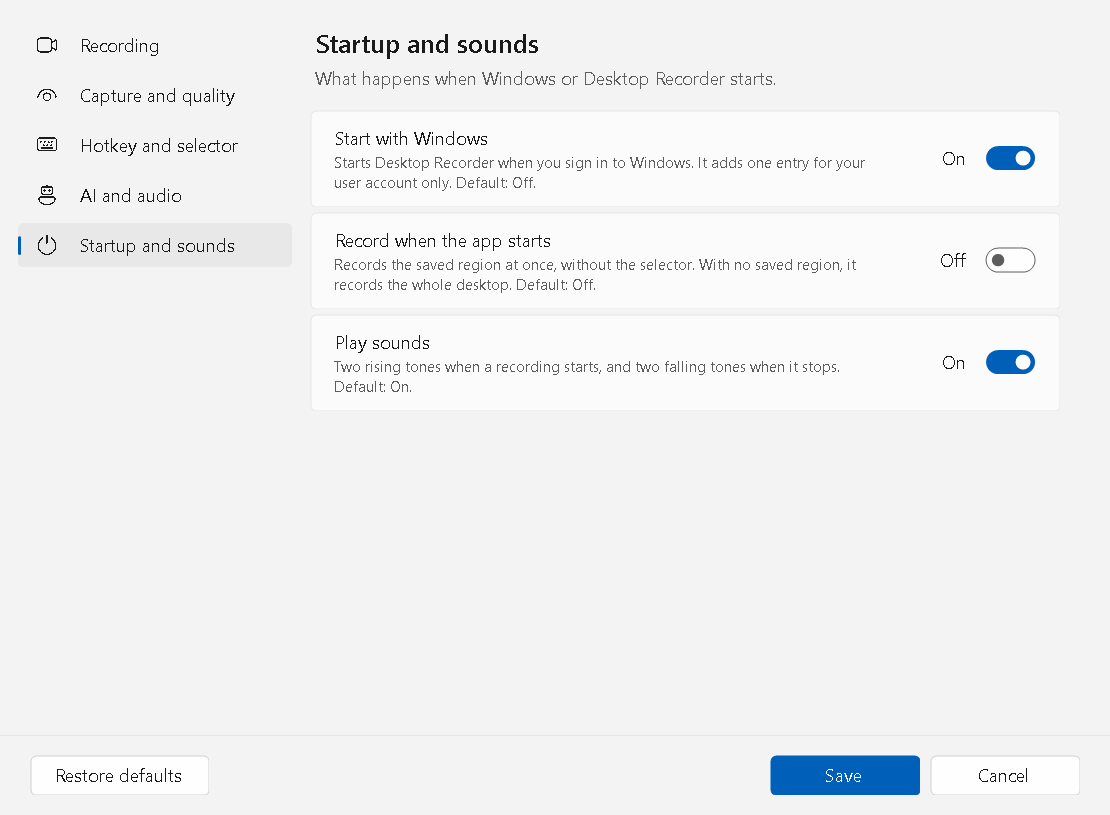
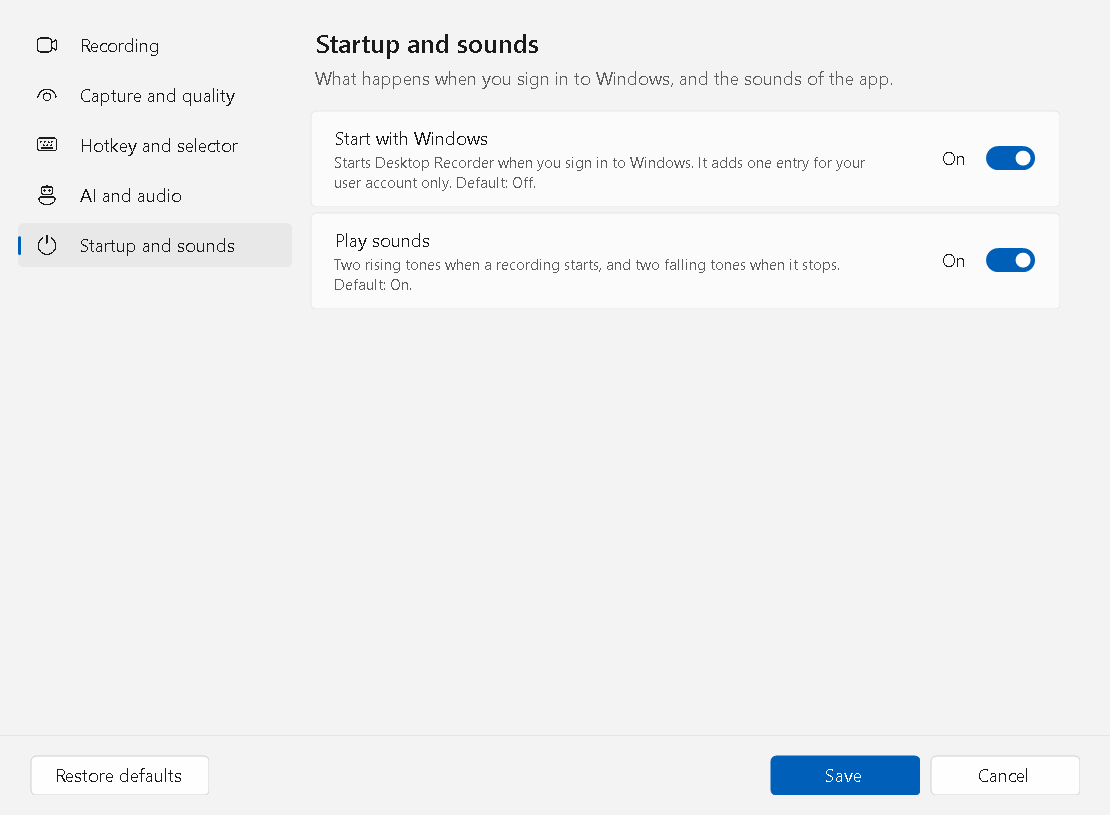
Remove the setting "Record when the app starts"
Bran asked to remove the setting (2026-11-22). Every recording starts
with the hotkey and a region that the user selects, so the setting has
no use.

- Remove RecordOnLaunch from StoredSettings and Settings, the switch in
  the Settings window, its catalog entry and StartSavedRegion. The NVENC
  test in the background now runs at every start.
- The app does not read the record_on_launch key and does not drop it.
  The line goes to ExtraLines, and Save writes it back unchanged,
  because the Linux build uses the key and reads a missing key as on.
- Update the tests, the intro of the Startup page, the offscreen preview
  of the Startup page, two old comments, the notes in test/app_runs.ps1
  and test/phase_b.ps1, README, CHANGELOG and HANDOFF (7.24).

diff --git a/tests/CoreTests.cs b/tests/CoreTests.cs
@@ -35,6 +35,7 @@ static class CoreTests
         TestArguments();
         TestBackendSettings();
         TestLastRegionHotkey();
+        TestRecordOnLaunchRemoved();
         TestRegion();
         TestPlan();
         TestNvencSizeLimits();
@@ -130,11 +131,10 @@ static class CoreTests
         Expect(saved.Contains("hotkey=Win+Shift+D\r\n"), "hotkey serialized");
         StoredSettings again = RecorderCore.ParseSettings(saved, defaults);
         Expect(again.ExtraLines.Count == 2, "extras survive a second load");
-        Expect(again.CopyToClipboard && again.PlaySounds && !again.RecordOnLaunch, "bool defaults when omitted");
-        Expect(RecorderCore.ParseSettings("record_on_launch=1\r\n", defaults).RecordOnLaunch, "explicit record on launch");
+        Expect(again.CopyToClipboard && again.PlaySounds, "bool defaults when omitted");
 
-        StoredSettings off = RecorderCore.ParseSettings("record_on_launch=0\r\ncopy_to_clipboard=0\r\nplay_sounds=0\r\nfps=2.5\r\n", defaults);
-        Expect(!off.RecordOnLaunch && !off.CopyToClipboard && !off.PlaySounds, "explicit off");
+        StoredSettings off = RecorderCore.ParseSettings("copy_to_clipboard=0\r\nplay_sounds=0\r\nfps=2.5\r\n", defaults);
+        Expect(!off.CopyToClipboard && !off.PlaySounds, "explicit off");
         Expect(off.Fps == 2.5, "fractional fps");
         Expect(!again.ShowPointer, "pointer hidden by default");
         Expect(saved.Contains("show_pointer=0\r\n"), "pointer serialized");
@@ -262,6 +262,26 @@ static class CoreTests
         string saved = RecorderCore.SerializeSettings(o);
         Expect(!saved.Contains("last_region_hotkey") && !saved.Contains("stop_hotkey"), "old hotkey keys dropped: " + saved);
     }
+
+    static void TestRecordOnLaunchRemoved()
+    {
+        // "Record when the app starts" (record_on_launch) was removed on 2026-11-22 (Bran). The Windows app does not
+        // use the key. It keeps an old line for the Linux build, which reads a missing key as on.
+        StoredSettings d = new StoredSettings();
+        Expect(RecorderCore.SerializeSettings(d).IndexOf("record_on_launch", StringComparison.Ordinal) < 0, "a new file has no record_on_launch");
+        foreach (string v in new[] { "0", "1" })
+        {
+            string line = "record_on_launch=" + v;
+            StoredSettings o = RecorderCore.ParseSettings("fps=4\r\n" + line + "\r\nplay_sounds=0\r\n", d);
+            Expect(o.Fps == 4 && !o.PlaySounds, "old file with " + line + " loads the other keys");
+            Expect(o.ExtraLines.Count == 1 && o.ExtraLines[0] == line, "old " + line + " is kept for the Linux build");
+            string saved = RecorderCore.SerializeSettings(o);
+            int first = saved.IndexOf("record_on_launch", StringComparison.Ordinal);
+            Expect(first >= 0 && first == saved.LastIndexOf("record_on_launch", StringComparison.Ordinal) && saved.Contains(line + "\r\n"),
+                "old " + line + " is written back once, unchanged: " + saved);
+            ExpectEqual(RecorderCore.SerializeSettings(RecorderCore.ParseSettings(saved, d)), saved, "second save with " + line + " identical");
+        }
+    }
     static void TestBackendSettings()
     {
         StoredSettings d = new StoredSettings();
@@ -275,11 +295,11 @@ static class CoreTests
         // An old settings file (before this change) loads with the new defaults.
         string old = "folder=C:\\Rec\r\nfps=4\r\nquality=0\r\nsplit_minutes=10\r\nrecord_on_launch=0\r\ncopy_to_clipboard=1\r\nplay_sounds=1\r\nhotkey=Win+Shift+D\r\n";
         StoredSettings o = RecorderCore.ParseSettings(old, d);
-        Expect(o.Folder == "C:\\Rec" && o.Fps == 4 && o.Quality == 0 && o.SplitMinutes == 10 && !o.RecordOnLaunch, "old file values");
+        Expect(o.Folder == "C:\\Rec" && o.Fps == 4 && o.Quality == 0 && o.SplitMinutes == 10, "old file values");
         Expect(o.CaptureBackend == "ddagrab" && o.Encoder == "auto" && o.ChromaFormat == "yuv420"
             && o.FrameRateMode == "changes" && o.NvencCq == 23, "old file new defaults");
         Expect(RecorderCore.RegionOf(o).IsEmpty, "old file no region");
-        Expect(o.ExtraLines.Count == 0, "old file no extras");
+        Expect(o.ExtraLines.Count == 1 && o.ExtraLines[0] == "record_on_launch=0", "old file keeps only the record_on_launch line");
 
         // Round trip.
         StoredSettings s = new StoredSettings();

diff --git a/DesktopRecorder.cs b/DesktopRecorder.cs
@@ -43,7 +43,6 @@ class Settings
     public double Fps = RecorderCore.DefaultFps;
     public int Quality = 1;          // 0 = smallest, 1 = balanced, 2 = sharpest
     public int SplitMinutes = 30;    // 0 = one file per recording
-    public bool RecordOnLaunch = false;
     public bool CopyToClipboard = true;
     public bool PlaySounds = true;
     public bool ShowPointer = false;
@@ -103,7 +102,6 @@ class Settings
         stored.Fps = Fps;
         stored.Quality = Quality;
         stored.SplitMinutes = SplitMinutes;
-        stored.RecordOnLaunch = RecordOnLaunch;
         stored.CopyToClipboard = CopyToClipboard;
         stored.PlaySounds = PlaySounds;
         stored.ShowPointer = ShowPointer;
@@ -144,7 +142,6 @@ class Settings
         Fps = stored.Fps;
         Quality = stored.Quality;
         SplitMinutes = stored.SplitMinutes;
-        RecordOnLaunch = stored.RecordOnLaunch;
         CopyToClipboard = stored.CopyToClipboard;
         PlaySounds = stored.PlaySounds;
         ShowPointer = stored.ShowPointer;
@@ -732,8 +729,7 @@ class TrayApp : ApplicationContext
         };
 
         Refresh();
-        if (!settings.RecordOnLaunch) Recorder.WarmUp(settings);
-        if (settings.RecordOnLaunch) StartSavedRegion(true, false);
+        Recorder.WarmUp(settings);
         string warning = HotkeyWarning();
         if (warning != null) tray.ShowBalloonTip(6000, "Desktop Recorder", warning, ToolTipIcon.Warning);
     }
@@ -788,21 +784,6 @@ class TrayApp : ApplicationContext
         }
     }
 
-    // Starts with the saved region, without the selector. Used at launch and after a settings change.
-    // With no saved region, or a region that is not on the screen now, it records the whole desktop (as before).
-    void StartSavedRegion(bool sound, bool balloon)
-    {
-        Rectangle region = Rectangle.Empty;
-        string note = null;
-        if (!settings.Region.IsEmpty)
-        {
-            Rectangle? onScreen = RegionSelector.NormalizeRegion(settings.Region);
-            if (onScreen.HasValue) region = onScreen.Value;
-            else note = "The saved region is not on the screen now. Recording the whole desktop.";
-        }
-        StartRecording(region, sound, balloon || note != null, note);
-    }
-
     // The record hotkey and the first tray item: show the selector, then record the selection.
     void SelectAndRecord()
     {
@@ -819,7 +800,7 @@ class TrayApp : ApplicationContext
         try
         {
             // No preselected region: the release of the mouse starts the recording, so a drag must always
-            // draw a new box. The last region has its own hotkey.
+            // draw a new box.
             picked = RegionSelector.Show(null);
         }
         catch (Exception e)

diff --git a/tests/UiTests.cs b/tests/UiTests.cs
@@ -123,11 +123,12 @@ static class UiTests
     static void TestCatalogKeys()
     {
         HashSet<string> fileKeys = FileKeys();
-        // The 19 settings of the old Settings window (3.0.1): none is lost.
+        // The 19 settings of the old Settings window (3.0.1): none is lost, except "Record when the app starts"
+        // (record_on_launch), which Bran removed on 2026-11-22. That leaves 18.
         string[] oldWindow =
         {
             "folder", "fps", "quality", "split_minutes", "hotkey", "capture_backend", "encoder", "chroma",
-            "frame_rate_mode", "output_mode", SettingsCatalog.StartWithWindowsKey, "record_on_launch", "copy_to_clipboard",
+            "frame_rate_mode", "output_mode", SettingsCatalog.StartWithWindowsKey, "copy_to_clipboard",
             "play_sounds", "show_pointer", "record_audio", "selector_crosshair", "selector_magnifier", "selector_position"
         };
         HashSet<string> seen = new HashSet<string>();
@@ -138,7 +139,8 @@ static class UiTests
             Expect(s.Help.Contains("Default: "), "help gives the default: " + s.Key);
             Expect(s.Title.Length > 0 && s.Help.Length > 0, "title and help: " + s.Key);
         }
-        Expect(SettingsCatalog.All.Length == oldWindow.Length, "catalog has 19 settings");
+        Expect(SettingsCatalog.All.Length == oldWindow.Length, "catalog has 18 settings");
+        Expect(!seen.Contains("record_on_launch") && !fileKeys.Contains("record_on_launch"), "record_on_launch is removed");
         foreach (string key in oldWindow) Expect(seen.Contains(key), "old window setting kept: " + key);
         foreach (SettingsPage page in SettingsCatalog.Pages)
         {
@@ -186,7 +188,6 @@ static class UiTests
         Expect(SettingsCatalog.Get("show_pointer").Help.Contains("Default: " + (d.ShowPointer ? "Off" : "On")), "pointer help default");
         Expect(SettingsCatalog.Get("copy_to_clipboard").Help.Contains("Default: " + (d.CopyToClipboard ? "On" : "Off")), "copy help default");
         Expect(SettingsCatalog.Get("record_audio").Help.Contains("Default: " + (d.RecordAudio ? "On" : "Off")), "audio help default");
-        Expect(SettingsCatalog.Get("record_on_launch").Help.Contains("Default: " + (d.RecordOnLaunch ? "On" : "Off")), "launch help default");
         Expect(SettingsCatalog.Get("play_sounds").Help.Contains("Default: " + (d.PlaySounds ? "On" : "Off")), "sound help default");
         Expect(SettingsCatalog.Get("selector_crosshair").Help.Contains("Default: " + (d.SelectorCrosshair ? "On" : "Off")), "crosshair help default");
         Expect(SettingsCatalog.Get("selector_magnifier").Help.Contains("Default: " + (d.SelectorMagnifier ? "On" : "Off")), "magnifier help default");

diff --git a/RecorderCore.cs b/RecorderCore.cs
@@ -13,7 +13,6 @@ sealed class StoredSettings
     public double Fps = RecorderCore.DefaultFps;
     public int Quality = 1;
     public int SplitMinutes = 30;
-    public bool RecordOnLaunch = false;
     public bool CopyToClipboard = true;
     public bool PlaySounds = true;
     // Draw the mouse pointer in the video. Off = no pointer: a mouse move on a still screen
@@ -434,7 +433,6 @@ static class RecorderCore
             if (int.TryParse(val, NumberStyles.Integer, CultureInfo.InvariantCulture, out i)) s.SplitMinutes = i;
             return true;
         }
-        if (key == "record_on_launch") { s.RecordOnLaunch = val == "1"; return true; }
         if (key == "copy_to_clipboard") { s.CopyToClipboard = val == "1"; return true; }
         if (key == "play_sounds") { s.PlaySounds = val == "1"; return true; }
         if (key == "show_pointer") { s.ShowPointer = val == "1"; return true; }
@@ -526,6 +524,9 @@ static class RecorderCore
         // Removed on 2026-11-14 (Bran): the "record last region" hotkey and the separate stop hotkey.
         // The one hotkey starts and stops. Read and drop the old keys, so they do not stay in the file.
         if (key == "last_region_hotkey" || key == "stop_hotkey") return true;
+        // Removed on 2026-11-22 (Bran): record_on_launch ("Record when the app starts"). On purpose, it is not read
+        // and not dropped here: the line goes to ExtraLines and is written back unchanged, because the Linux build
+        // uses this key and reads a missing key as on.
         return false;
     }
 
@@ -570,7 +571,6 @@ static class RecorderCore
         Append(sb, "fps", ClampFps(s.Fps).ToString("0.###", CultureInfo.InvariantCulture));
         Append(sb, "quality", ClampQuality(s.Quality).ToString(CultureInfo.InvariantCulture));
         Append(sb, "split_minutes", ClampSplitMinutes(s.SplitMinutes).ToString(CultureInfo.InvariantCulture));
-        Append(sb, "record_on_launch", s.RecordOnLaunch ? "1" : "0");
         Append(sb, "copy_to_clipboard", s.CopyToClipboard ? "1" : "0");
         Append(sb, "play_sounds", s.PlaySounds ? "1" : "0");
         Append(sb, "show_pointer", s.ShowPointer ? "1" : "0");
@@ -624,7 +624,6 @@ static class RecorderCore
         s.Fps = defaults.Fps;
         s.Quality = defaults.Quality;
         s.SplitMinutes = defaults.SplitMinutes;
-        s.RecordOnLaunch = defaults.RecordOnLaunch;
         s.CopyToClipboard = defaults.CopyToClipboard;
         s.PlaySounds = defaults.PlaySounds;
         s.ShowPointer = defaults.ShowPointer;

diff --git a/SettingsForm.cs b/SettingsForm.cs
@@ -30,7 +30,7 @@ sealed class SettingsForm : Form
     readonly NumericUpDown fps = new NumericUpDown(), split = new NumericUpDown();
     readonly ToggleSwitch pointer = new ToggleSwitch(), crosshair = new ToggleSwitch(), magnifier = new ToggleSwitch(),
         position = new ToggleSwitch(), copy = new ToggleSwitch(), audio = new ToggleSwitch(), startup = new ToggleSwitch(),
-        launch = new ToggleSwitch(), sounds = new ToggleSwitch();
+        sounds = new ToggleSwitch();
     readonly CheckBox win = new CheckBox(), ctrl = new CheckBox(), alt = new CheckBox(), shift = new CheckBox();
     readonly Label message;
     readonly string whisperText;
@@ -232,7 +232,6 @@ sealed class SettingsForm : Form
         Page(SettingsPage.Startup, delegate(Panel p, ref int y)
         {
             InlineCard(p, ref y, SettingsCatalog.StartWithWindowsKey, startup, 0);
-            InlineCard(p, ref y, "record_on_launch", launch, 0);
             InlineCard(p, ref y, "play_sounds", sounds, 0);
         });
         LayoutWindow();
@@ -405,7 +404,6 @@ sealed class SettingsForm : Form
         copy.Checked = s.CopyToClipboard;
         audio.Checked = s.RecordAudio;
         startup.Checked = startsWithWindows;
-        launch.Checked = s.RecordOnLaunch;
         sounds.Checked = s.PlaySounds;
     }
 
@@ -437,7 +435,6 @@ sealed class SettingsForm : Form
         result.Fps = (double)fps.Value;
         result.Quality = int.Parse(SettingsCatalog.ValueAt(SettingsCatalog.Quality, quality.SelectedIndex), System.Globalization.CultureInfo.InvariantCulture);
         result.SplitMinutes = (int)split.Value;
-        result.RecordOnLaunch = launch.Checked;
         result.CopyToClipboard = copy.Checked;
         result.PlaySounds = sounds.Checked;
         result.ShowPointer = !pointer.Checked;

diff --git a/UiModel.cs b/UiModel.cs
@@ -182,7 +182,7 @@ static class SettingsCatalog
             case SettingsPage.Capture: return "How the screen is captured and encoded.";
             case SettingsPage.Hotkey: return "How you start and stop a recording.";
             case SettingsPage.AiAudio: return "What the app gives to the AI after a recording.";
-            default: return "What happens when Windows or Desktop Recorder starts.";
+            default: return "What happens when you sign in to Windows, and the sounds of the app.";
         }
     }
 
@@ -278,8 +278,6 @@ static class SettingsCatalog
 
         new SettingInfo(StartWithWindowsKey, SettingsPage.Startup, "Start with Windows",
             "Starts Desktop Recorder when you sign in to Windows. It adds one entry for your user account only. Default: Off."),
-        new SettingInfo("record_on_launch", SettingsPage.Startup, "Record when the app starts",
-            "Records the saved region at once, without the selector. With no saved region, it records the whole desktop. Default: Off."),
         new SettingInfo("play_sounds", SettingsPage.Startup, "Play sounds",
             "Two rising tones when a recording starts, and two falling tones when it stops. Default: On.")
     };

diff --git a/RegionSelector.cs b/RegionSelector.cs
@@ -59,7 +59,7 @@ public static class RegionSelector
 
     /// <summary>
     /// Clips the region to the virtual screen and makes the width and the height even (H.264 needs even sizes).
-    /// Returns null when less than 2 x 2 px stays. Use this for "record last region" without the selector.
+    /// Returns null when less than 2 x 2 px stays.
     /// </summary>
     public static Rectangle? NormalizeRegion(Rectangle region)
     {

diff --git a/test/ui_preview.cs b/test/ui_preview.cs
@@ -246,7 +246,6 @@ static class UiPreview
         all.Fps = 15;
         all.Quality = 2;
         all.SplitMinutes = 5;
-        all.RecordOnLaunch = true;
         all.CopyToClipboard = false;
         all.PlaySounds = false;
         all.ShowPointer = true;

diff --git a/HANDOFF.md b/HANDOFF.md
@@ -158,7 +158,7 @@ Other rules:
 10. Default frame rate: 10 fps (was 2). Bran decided on 2026-11-14. Reason: the 6.8 rule needs 2.3 fps for 1000 CSS px/s at 125% in an 892 px area. 10 fps is safe up to about 4400 CSS px/s. Bran's settings file already had `fps=10`.
 11. Quality default: keep Balanced (CQ 23). More reads of B3, B9 and B11 are put off to a later date (Bran, 2026-11-14). Data in 6.11; Bran decides.
 12. Release: push `test-kit`, merge it into `main`, publish v2.0.0 (Bran, 2026-11-14). The version is 2.0.0 because the hotkey now opens the selector, not a full-desktop recording.
-13. "Start recording (saved region) when Desktop Recorder starts": off by default (`record_on_launch=0`). Bran decided on 2026-11-20 (7.13).
+13. "Start recording (saved region) when Desktop Recorder starts": off by default (`record_on_launch=0`). Bran decided on 2026-11-20 (7.13). Removed on 2026-11-22 (Bran): every recording starts with the hotkey and a region that Bran selects, so the setting has no use (7.24).
 
 ---
 
@@ -622,6 +622,7 @@ Commands of this run, in order (`quality_reads.py`; the defaults are `--reads 1-
 | UI redesign: note box, Settings, tray menu (7.20) | Code, unit tests and offscreen previews (100%, 125%, 150%) done on branch `zip-only`. No live test (Bran used the PC). Not installed, not pushed, not released. Live test plan in 7.20. |
 | "Busy, then ready" indication for the ZIP (7.21) | Code, unit tests, offscreen previews and an independent review done on branch `zip-only`. No live test. Not installed, not pushed, not released. Live test items 9 to 13 in 7.20. |
 | Live test of zip-only: note box, Settings, tray menu, ZIP indication, selector keys (7.22) | Done on Bran's PC with synthetic input. 8 bugs found and fixed (tray menu over the taskbar, crosshair on white, mixed tray status, screen reader name, two spaces in the note, ZIP temp file, old record command, cut detail). All live checks pass, except 100%/150% (not run). Not installed, not pushed, not released. |
+| Remove "Record when the app starts" (7.24) | Code, unit tests, offscreen preview and an independent review done on branch `zip-only`. No live test. Not installed, not pushed, not released. |
 
 ### 7.1 Later and future work (Bran, 2026-11-14)
 
@@ -1376,6 +1377,37 @@ The first runs gave more FAIL rows. All of them were driver faults (for example:
 - Checked: no ffmpeg process ran before the swap; the app runs from that path and responds; the Run entry points at it.
 - Checked by Bran before the install, with the 2669732 build: real recordings gave one ZIP and no folder; a note was in the ZIP; the motion warning showed for a Twitch stream; the transcript kept real speech.
 - Not checked: a recording with the 7BEA53A7 build after the install; a paste of the ZIP into a Claude chat or cloud session. Not released, not pushed.
+
+### 7.24 Remove "Record when the app starts" (2026-11-22, branch `zip-only`, not pushed, not released)
+
+- Bran (22:56): "can you remove setting start recording when startup? makes no sense." Every recording starts with the hotkey and a region that Bran selects. The default was off since 7.13. Headless job, code only: the agent did not start the app, did not stop the installed app, sent no input and took no screenshot.
+- Code: the field `RecordOnLaunch` is removed from `StoredSettings` (`RecorderCore.cs`) and `Settings` (`DesktopRecorder.cs`). `StartSavedRegion` is removed: its only caller was the start of the app. `Recorder.WarmUp` (the NVENC test in the background) now runs at every start. The Settings window has no "Record when the app starts" switch. The catalog has 18 settings. New intro of the Startup page: "What happens when you sign in to Windows, and the sounds of the app." Two old comments are corrected (`RegionSelector.NormalizeRegion`, `SelectAndRecord`).
+- Old key (decision without Bran): the Windows app does not read `record_on_launch`, and it does not drop the key. The line goes to `ExtraLines`, and the next Save writes it back unchanged, like the Linux-only keys. A new Windows file never gets the key. Reason: the Linux build uses the key and reads a missing key as on (`record_on_launch: bool = True` in `linux/desktop_recorder/settings.py`). If the Windows app dropped the line, a file shared with the Linux build would make Linux record at launch.
+- Result for Bran: `settings.txt` keeps `record_on_launch=0` (after the next Save, at the end of the file). The Windows app ignores the line, also a value of 1.
+- Tests: new `TestRecordOnLaunchRemoved` (a new file has no key; old files with `=0` and `=1` load the other keys; the line is kept once and unchanged; a second save is identical). `TestBackendSettings`: the old file keeps only that line as an extra line. `TestCatalogKeys`: 18 settings, and the key is not in the catalog and not in a new file.
+- `test\app_runs.ps1` and `test\phase_b.ps1` used `record_on_launch=1` to start a recording. Each has a note now: with this build, step 3 starts no recording. They are not changed to the hotkey and selector flow (this job could not run them).
+- Offscreen preview: `docs/ui/offscreen-settings-startup-125.png` is new. The other 30 offscreen previews are pixel-equal to the new run, so the window size did not change.
+- Old picture, not changed: `docs/ui/live-settings-page5-125.png` is a real screenshot from 7.22. It still shows the switch.
+
+Checked (this job, on Bran's PC):
+
+- The app builds with the file list of `build.cmd` (`/out:DesktopRecorder-zip.exe`; CS0649 warnings only).
+- Unit tests: `ok`.
+- `test\ui_preview.cs`: `preview ok`. Round trips: 28, 29 and 29 lines (before: 29, 30 and 30).
+- Independent review (code-reviewer agent): no blocking finding. It agreed with the handling of the old key. Two comments were changed after the review.
+
+Not checked:
+
+- The app on the screen: the Settings window, and a start of the app with an old `settings.txt` that has `record_on_launch=1` (expected: no recording at start).
+- That Save in the Settings window keeps the old line. Code reading and the `linux_only_key=1` line of the preview round trip cover the same path. No test uses `record_on_launch` for it.
+- The Mono build and the GitHub CI.
+- The Linux build with a file from this build: a new Windows file has no `record_on_launch`, so the Linux build reads it as on. Linux is not changed in this task.
+
+Seen, not changed:
+
+- Nothing in the Windows app now reads `region` or `last_region` to start a recording. The selector still writes them (4.1 point 9).
+- `StartRecording` has one caller now. Its `sound`, `balloon` and `note` arguments are always `true`, `true` and `null`.
+- The class comment at the top of `RegionSelector.cs` still names a "last region" from before 2.0.0.
 
 ## 8. Rules for the agent
 

diff --git a/CHANGELOG.md b/CHANGELOG.md
@@ -14,7 +14,7 @@ Dates are the GitHub release dates (UTC). This file was made from the GitHub rel
 ### Changed
 
 - Windows, note box after Stop (Bran, 2026-11-22): it opens in the middle of the monitor of the recording, larger, with a title, a line that says what the note is for, the recording name and length, and a text box with several lines. "Save note" (default) and "No note". Enter saves; Shift+Enter or Ctrl+Enter starts a new line (`index.md` still shows the note on one line). Esc, the X button, Alt+F4 and "No note" close an empty box at once. When the box has text, they ask "Save this note?" in the box: Save, Discard or Back. Exit in the tray menu asks the same question, and Back cancels the Exit. A Windows shutdown saves the text. The box stays on top, is in the taskbar, does not close when it loses the focus, and flashes its taskbar button when it opens without the focus. It follows the app theme (light or dark).
-- Windows, Settings window: five pages in a left navigation list (Recording, Capture and quality, Hotkey and selector, AI and audio, Startup and sounds). Each setting is a card with a help text that gives the default. Switches replace the check boxes. A problem shows in red at the bottom and the window opens the page of the problem. New "Restore defaults" button: it puts the defaults into the fields, and Save applies them. "Start a new file every" is off in folder mode. The AI and audio page tells if Whisper is found. Every setting, key, default and value range stays. The window uses the light theme only.
+- Windows, Settings window: five pages in a left navigation list (Recording, Capture and quality, Hotkey and selector, AI and audio, Startup and sounds). Each setting is a card with a help text that gives the default. Switches replace the check boxes. A problem shows in red at the bottom and the window opens the page of the problem. New "Restore defaults" button: it puts the defaults into the fields, and Save applies them. "Start a new file every" is off in folder mode. The AI and audio page tells if Whisper is found. Every other setting, key, default and value range stays (see Removed). The window uses the light theme only.
 - Windows, tray menu: a status at the top (not recording, recording with the elapsed time, processing, closing), groups, a bold "Select region and record" or "Stop recording" with the hotkey at the right, icons, and the app theme (light or dark). Every command stays. The tooltip tells the state.
 - Windows, folder mode: the output of a recording is one ZIP file only (Bran, 2026-11-22). After the frame pass, the app always makes the ZIP next to where the recording folder was. The clipboard holds the ZIP as a file and the text message for the AI. It never holds the loose files. Then the app deletes the recording folder. When the frame pass fails, the folder stays (it holds the lossless work file), and the app still makes and copies the ZIP.
 - A note typed in the note box after the ZIP is made goes into `index.md`, and the app makes the ZIP again (same path). The folder is deleted only when the note box is closed and the ZIP is done.
@@ -41,6 +41,7 @@ Dates are the GitHub release dates (UTC). This file was made from the GitHub rel
 ### Removed
 
 - Windows: the setting "Folder mode: copy one ZIP above this many files" (`clipboard_max_files`), which was never released. A settings file that has the key still loads with no error. The next Save does not write it.
+- Windows: the setting "Record when the app starts" (`record_on_launch`; "Start recording (saved region) when Desktop Recorder starts" in 3.0.1), Bran, 2026-11-22. Every recording starts with the hotkey and an area that you select. The app does not record when it starts, also when an old settings file has `record_on_launch=1`. The old line stays in `settings.txt`, because the Linux build uses the key. The Windows app ignores it.
 
 ### Notes
 

diff --git a/README.md b/README.md
@@ -126,7 +126,6 @@ The Settings window has five pages in a list at the left: Recording, Capture and
 | Frame-rate mode (Recording) | Changes only | Fixed frame rate, or Changes only. |
 | Output (Recording) | Folder for AI | Folder for AI (frames, `index.md`, `clip.mp4`), or MP4 only. See [Recording folder](#recording-folder-windows). |
 | Start with Windows (Startup and sounds) | Off | Adds one entry for your user account only. |
-| Record when the app starts (Startup and sounds) | Off | On records the last selected area as soon as the app starts, without the selector. With no saved area, or an area that is not on the screen now, it records the full desktop. |
 | Copy to the clipboard when the recording stops (AI and audio) | On | In folder mode: the ZIP and the text message. |
 | Play sounds (Startup and sounds) | On | Two rising tones for start, two falling tones for stop. |
 | Hide the mouse pointer (Capture and quality) | On | Off shows the pointer in the video and in the frames. See [Good to know](#good-to-know). |
@@ -134,6 +133,8 @@ The Settings window has five pages in a list at the left: Recording, Capture and
 | Crosshair, Magnifier, Position and size (Hotkey and selector) | Off, On, On | The keys C, M and P in the selector change them too. |
 
 Settings are stored in `%APPDATA%\DesktopRecorder\settings.txt`.
+
+The app does not record when it starts. Every recording starts with the hotkey and an area that you select. The setting "Record when the app starts" (`record_on_launch`) was removed on 2026-11-22. An old `record_on_launch` line stays in `settings.txt`, because the Linux build uses that key. The Windows app ignores the line.
 
 When you click Save during a recording, the recording continues. New capture settings apply to the next recording. A new hotkey applies at once.
 
